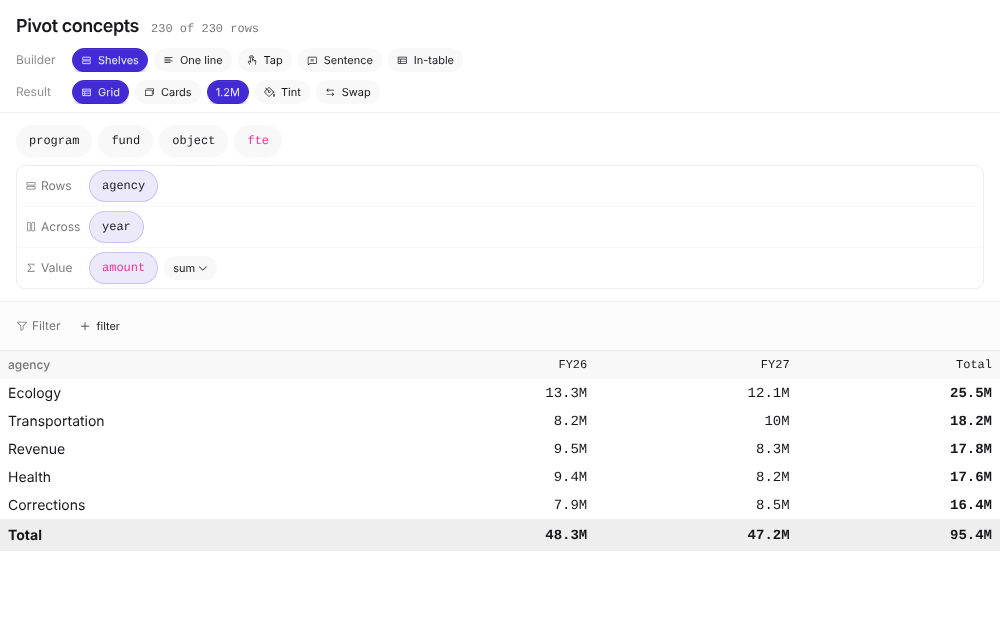
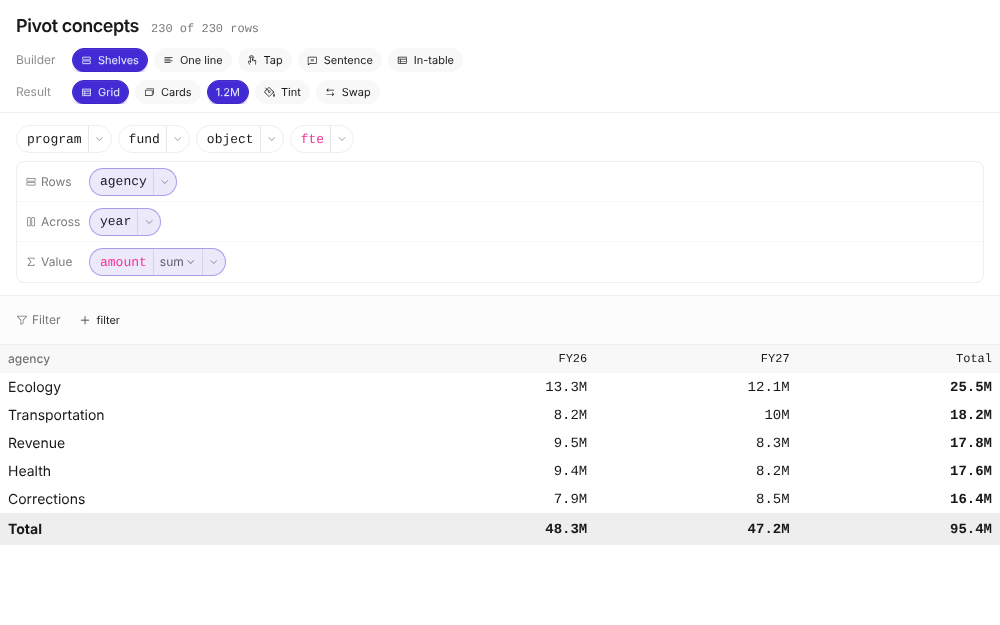
Pivot concepts: crisp capsule pills, the summary inside, a card per field
Pills are capsules rather than daisyUI buttons: 28px tall, a 1px border,
the name truncating before a pill outgrows its line. The value's summary
is a segment inside its pill. Every pill ends in a caret that opens the
field's card: type and decimals, its role, distinct, filled and blank,
a number's min, median and max, the commonest values with bars, and
Filter by it. The figures are TableStats.profile's, as in the explorer's
Columns view and the workbench's Profile.

Claude-Session: https://claude.ai/code/session_01Ez3JXRTC1DuLsbFiz3iDnu

diff --git a/pages/pivot-concepts.html b/pages/pivot-concepts.html
@@ -49,6 +49,8 @@
 <div id="ghost" class="hidden fixed z-[80] pointer-events-none -translate-x-1/2 -translate-y-1/2"></div>
 <!-- Where the dragged pill will land. -->
 <div id="caret" class="hidden fixed z-[79] pointer-events-none w-0.5 rounded-full bg-primary"></div>
+<!-- A field's card, from the caret on its pill. -->
+<div id="card" class="hidden fixed z-[75] w-72 max-w-[calc(100vw-2rem)] rounded-box border border-base-300 bg-base-100 shadow-xl text-sm" role="dialog"></div>
 
 <script>
 (() => {
@@ -147,24 +149,27 @@
   // ── pills ───────────────────────────────────────────────────────────────────
   // data-pill marks a draggable field; data-from names where it sits. A pill's
   // role shows in its icon, so a pill means the same thing in every concept.
-  // A pill's colour says what its field holds: numbers in the secondary hue,
-  // text in the page's own. Placed pills are filled; tray pills are plain;
-  // the selected pill is ringed. Only the Tap builder, which has no shelves
-  // to say a pill's role, gives it a role icon.
+  // A PILL IS A CAPSULE, not a daisyUI button: 28px tall, a 1px border, the
+  // name truncating before the pill outgrows its line. Its colour says what
+  // the field holds (numbers in the secondary hue, text in the page's own);
+  // placed pills are tinted, tray pills plain, the picked-up pill ringed. Its
+  // segments, each a tap of its own: the name (pick up, or drag), the value's
+  // summary when it is the value, and a caret for the field's card. Only the
+  // Tap builder, which has no shelves to say a pill's role, shows a role icon.
   function pill(field, from, { role = from, cls = '', label, roleIcon = false } = {}) {
     const placed = role && role !== 'tray';
     const num = SCAN.isNum[field];
     const sel = st.sel && st.sel.field === field && st.sel.from === from;
     const ex = st.excluded[field]?.size;
-    const extra = role === 'filters' && ex ? ` <span class="opacity-60 font-normal">${VALUES[field].length - ex} of ${VALUES[field].length}</span>` : '';
-    const btn = `<button type="button" data-pill data-field="${esc(field)}" data-from="${from}"
-      class="btn btn-sm rounded-full gap-1 font-mono font-normal touch-none [-webkit-touch-callout:none] border ${placed ? 'bg-primary/10 border-primary/20' : 'bg-base-200 border-transparent'} ${num ? 'text-secondary' : ''} ${sel ? 'ring-2 ring-[var(--color-primary)] ring-offset-1 ring-offset-base-100' : ''} ${cls}">
-      ${roleIcon && placed ? `<i class="ph ${ICON[role]} text-sm opacity-70"></i>` : ''}${esc(label ?? field)}${extra}</button>`;
-    // The value carries its summary as a chip of its own beside it, the one
-    // choice a placed pill still makes by menu.
-    return role === 'value' && from === 'value' && st.value === field
-      ? btn + `<button type="button" data-agg class="btn btn-xs rounded-full btn-ghost bg-base-200 font-normal gap-0.5">${esc(st.agg === 'avg' ? 'average' : st.agg)}<i class="ph ph-caret-down"></i></button>`
-      : btn;
+    const seg = 'inline-flex items-center self-stretch border-l border-base-content/10';
+    const kept = role === 'filters' && ex ? `<span class="${seg} px-1.5 text-xs font-sans text-base-content/60">${VALUES[field].length - ex}/${VALUES[field].length}</span>` : '';
+    const agg = role === 'value' && from === 'value' && st.value === field
+      ? `<span data-agg class="${seg} px-1.5 gap-0.5 text-xs font-sans text-base-content/70">${esc(st.agg === 'avg' ? 'average' : st.agg)}<i class="ph ph-caret-down text-[10px]"></i></span>` : '';
+    return `<button type="button" data-pill data-field="${esc(field)}" data-from="${from}"
+      class="inline-flex items-stretch h-7 max-w-full shrink-0 rounded-full border overflow-hidden font-mono text-[13px] leading-none touch-none select-none [-webkit-touch-callout:none]
+        ${placed ? 'bg-primary/10 border-primary/40' : 'bg-base-100 border-base-300'} ${num ? 'text-secondary' : 'text-base-content'}
+        ${sel ? 'ring-2 ring-[var(--color-primary)] ring-offset-1 ring-offset-base-100' : ''} ${cls}">
+      <span class="inline-flex items-center gap-1 pl-2.5 pr-1.5 min-w-0">${roleIcon && placed ? `<i class="ph ${ICON[role]} text-xs opacity-70"></i>` : ''}<span class="truncate">${esc(label ?? field)}</span></span>${kept}${agg}<span data-info class="${seg} px-1.5 text-base-content/50" aria-label="About ${esc(field)}"><i class="ph ph-caret-down text-[10px]"></i></span></button>`;
   }
   const empty = (zone, text) => `<span class="text-xs text-base-content/40 italic px-1" data-empty="${zone}">${text}</span>`;
 
@@ -243,10 +248,10 @@
     (function walk(n, d) { if (d === depth) { leaves.push(n); for (const k of keys) if (k in n.cells) max = Math.max(max, Math.abs(n.cells[k])); if (!keys.length) max = Math.max(max, Math.abs(n.value)); } n.children.forEach(c => walk(c, d + 1)); })(res.tree, 0);
     const th = 'sticky top-0 z-10 bg-base-200 px-2 py-1.5 text-right font-mono text-xs font-medium whitespace-nowrap';
     const corner = zones
-      ? `<div class="flex flex-col gap-1 items-start" data-zone="rows">${st.rows.length ? st.rows.map(f => pill(f, 'rows', { cls: 'btn-xs' })).join('') : empty('rows', 'rows here')}</div>`
+      ? `<div class="flex flex-col gap-1 items-start" data-zone="rows">${st.rows.length ? st.rows.map(f => pill(f, 'rows', {})).join('') : empty('rows', 'rows here')}</div>`
       : `<span class="text-base-content/60">${esc(cfg.rows.join(' › ') || 'Total')}</span>`;
-    const band = zones ? `<tr><th class="sticky left-0 top-0 z-30 bg-base-200 px-2 py-1 text-left align-top" data-zone="value">${st.value ? pill(st.value, 'value', { cls: 'btn-xs' }) : empty('value', 'value here')}</th>
-        <th colspan="${keys.length + 1}" class="sticky top-0 z-20 bg-base-200 px-2 py-1 text-left" data-zone="cols"><div class="flex gap-1">${st.cols.length ? st.cols.map(f => pill(f, 'cols', { cls: 'btn-xs' })).join('') : empty('cols', 'across here')}</div></th></tr>` : '';
+    const band = zones ? `<tr><th class="sticky left-0 top-0 z-30 bg-base-200 px-2 py-1 text-left align-top" data-zone="value">${st.value ? pill(st.value, 'value', {}) : empty('value', 'value here')}</th>
+        <th colspan="${keys.length + 1}" class="sticky top-0 z-20 bg-base-200 px-2 py-1 text-left" data-zone="cols"><div class="flex gap-1">${st.cols.length ? st.cols.map(f => pill(f, 'cols', {})).join('') : empty('cols', 'across here')}</div></th></tr>` : '';
     const top = zones ? 'top-9' : 'top-0';
     const head = `<tr><th class="sticky left-0 ${top} z-30 bg-base-200 px-2 py-1.5 text-left text-xs font-medium align-bottom">${corner}</th>
       ${keys.map(k => `<th class="${th} ${top}">${esc(k)}</th>`).join('')}
@@ -285,6 +290,40 @@
     return `<div class="p-4 grid gap-3 grid-cols-[repeat(auto-fill,minmax(min(100%,16rem),1fr))]">${res.tree.children.map(card).join('')}</div>`;
   }
 
+  // ── the field's card ────────────────────────────────────────────────────────
+  // What TableStats.profile reads in the column, the same figures the
+  // explorer's Columns view and the workbench's Profile show: its type, how
+  // full it is, its distincts, a number's range, the commonest values.
+  const PROFILE = Object.fromEntries(S.profile(ROWS).columns.map(c => [c.name, c]));
+  function openCard(anchor, field) {
+    const c = PROFILE[field], card = $('card');
+    const n = (v) => Number(v).toLocaleString(undefined, { maximumFractionDigits: 2 });
+    const r = roleOf(field);
+    const top = c.topValues.slice(0, 6), most = Math.max(1, ...top.map(t => t.count));
+    const unique = c.distinctCount === c.filled;
+    card.innerHTML = `<div class="flex items-baseline gap-2 px-3 pt-2.5 pb-2 border-b border-base-200">
+        <span class="font-mono font-semibold truncate ${SCAN.isNum[field] ? 'text-secondary' : ''}">${esc(field)}</span>
+        <span class="text-xs text-base-content/60">${esc(c.type)}${SCAN.isNum[field] && SCAN.dec[field] ? ', ' + SCAN.dec[field] + ' decimals' : ''}</span>
+        <span class="ml-auto text-xs text-base-content/60">${r ? ROLE[r] : 'not placed'}</span></div>
+      <dl class="grid grid-cols-3 gap-px bg-base-200 text-center">
+        ${[['distinct', c.distinctCount.toLocaleString() + (c.distinctCapped ? '+' : '')], ['filled', Math.round(c.fillRate * 100) + '%'], ['blank', c.nulls.toLocaleString()]]
+          .map(([k, v]) => `<div class="bg-base-100 py-1.5"><dd class="font-mono tabular-nums">${v}</dd><dt class="text-xs text-base-content/50">${k}</dt></div>`).join('')}</dl>
+      ${c.numStats ? `<div class="px-3 py-2 border-b border-base-200 font-mono text-xs tabular-nums flex justify-between gap-2">
+        <span><span class="text-base-content/50">min</span> ${n(c.numStats.min)}</span><span><span class="text-base-content/50">median</span> ${n(c.numStats.median)}</span><span><span class="text-base-content/50">max</span> ${n(c.numStats.max)}</span></div>` : ''}
+      ${top.length && !unique ? `<ul class="px-3 py-2 flex flex-col gap-1">${top.map(t => `<li class="grid grid-cols-[minmax(0,1fr)_auto] gap-2 items-center">
+          <span class="relative truncate px-1 rounded-sm"><span class="absolute inset-y-0 left-0 bg-primary/10 rounded-sm" style="width:${Math.round(t.count / most * 100)}%"></span><span class="relative">${esc(t.value)}</span></span>
+          <span class="font-mono text-xs tabular-nums text-base-content/60">${t.count}</span></li>`).join('')}</ul>` : `<p class="px-3 py-2 text-xs text-base-content/60">${unique ? 'every value appears once' : ''}</p>`}
+      ${st.filters.includes(field) ? '' : `<div class="px-3 pb-2.5"><button type="button" class="btn btn-xs rounded-full btn-ghost border border-base-300 font-normal" data-card-filter="${esc(field)}"><i class="ph ph-funnel"></i>Filter by it</button></div>`}`;
+    const a = anchor.getBoundingClientRect();
+    card.classList.remove('hidden');
+    const w = card.offsetWidth, h = card.offsetHeight;
+    card.style.left = Math.max(8, Math.min(a.left, innerWidth - w - 8)) + 'px';
+    card.style.top = (a.bottom + h + 8 < innerHeight ? a.bottom + 6 : Math.max(8, a.top - h - 6)) + 'px';
+  }
+  const closeCard = () => $('card').classList.add('hidden');
+  document.addEventListener('pointerdown', (e) => { if (!e.target.closest('#card, [data-info]')) closeCard(); }, true);
+  document.addEventListener('scroll', closeCard, true);
+
   // What the selected pill's field holds, as the engine reads it.
   function info(f) {
     const blanks = ROWS.filter(r => r[f] == null || r[f] === '').length;
@@ -309,7 +348,7 @@
     $('builder').innerHTML = BUILDERS[st.concept].html() + (st.sel ? `<div class="pt-2 text-xs font-mono text-base-content/70 truncate">${info(st.sel.field)}</div>` : '');
     $('filters').innerHTML = `<div class="flex flex-wrap items-center gap-1.5 min-h-9">
       <span class="text-xs text-base-content/60 flex items-center gap-1 pr-1"><i class="ph ph-funnel"></i>Filter</span>
-      ${st.filters.map(f => pill(f, 'filters', { cls: 'btn-xs' })).join('')}
+      ${st.filters.map(f => pill(f, 'filters', {})).join('')}
       <button type="button" class="btn btn-xs rounded-full btn-ghost font-normal" data-addfilter><i class="ph ph-plus"></i>filter</button></div>`;
     const out = compute();
     $('figure').textContent = `${out.n.toLocaleString()} of ${ROWS.length.toLocaleString()} rows` + (out.res.skipped ? ` · ${out.res.skipped} skipped, no ${st.value}` : '');
@@ -456,7 +495,11 @@
     if (t.closest('[data-swap]')) { [st.rows, st.cols] = [st.cols, st.rows]; st.collapsed.clear(); return render(); }
     const f = t.closest('[data-fold]'); if (f) { const id = f.dataset.fold; st.collapsed.has(id) ? st.collapsed.delete(id) : st.collapsed.add(id); return render(); }
     const s = t.closest('[data-slot]'); if (s) return slotMenu(s);
-    const ag = t.closest('[data-agg]'); if (ag) return aggMenu(ag);
+    const inf = t.closest('[data-info]');
+    if (inf) { e.preventDefault(); const p = inf.closest('[data-pill]'); return $('card').classList.contains('hidden') || $('card').dataset.field !== p.dataset.field ? ($('card').dataset.field = p.dataset.field, openCard(p, p.dataset.field)) : closeCard(); }
+    const cf = t.closest('[data-card-filter]'); if (cf) { closeCard(); return place(cf.dataset.cardFilter, 'filters'); }
+    if (t.closest('#card')) return;
+    const ag = t.closest('[data-agg]'); if (ag) { e.preventDefault(); return aggMenu(ag); }
     const af = t.closest('[data-addfilter]');
     if (af) return window.rowMenu.open({ ...at(af), dense: true, items: [{ heading: 'Filter by' }, ...FIELDS.filter(f => !st.filters.includes(f)).map(f => ({ label: f, run: () => place(f, 'filters') }))] });
     const p = t.closest('[data-pill]');
@@ -480,7 +523,7 @@
       if (!t.closest('[role="menu"]')) return render();
     }
   }, true);
-  document.addEventListener('keydown', (e) => { if (e.key === 'Escape' && st.sel) { st.sel = null; render(); } });
+  document.addEventListener('keydown', (e) => { if (e.key === 'Escape') { closeCard(); if (st.sel) { st.sel = null; render(); } } });
 
   render();
 })();
